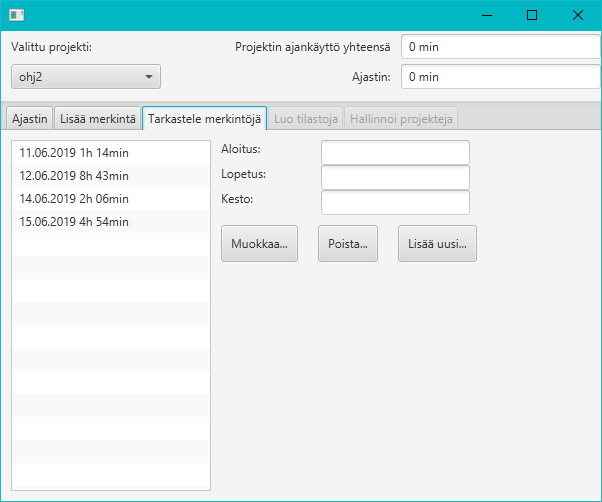
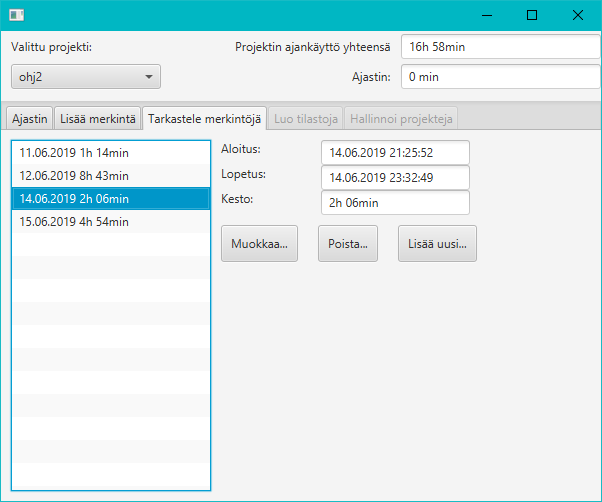
Lisätty toiminnallisuus projektien kokonaisajan laskemiseen ja näyttämiseen

diff --git a/tyoajanseuranta/src/fxTyoaika/controller/MainController.java b/tyoajanseuranta/src/fxTyoaika/controller/MainController.java
@@ -1,6 +1,8 @@
 package fxTyoaika.controller;
 
 import java.net.URL;
+import java.util.ArrayList;
+import java.util.LinkedList;
 import java.util.ResourceBundle;
 
 import fxTyoaika.model.Entry;
@@ -178,9 +180,7 @@ public class MainController extends AbstractController  {
             projectEntryList.setItems(FXCollections.observableArrayList(modelAccess.getSelectedProject().getEntries()));
         });
         
-        //Lisätään valitun projektin tallennetut merkinnät näkyville ListView-elementtiin
-        projectEntryList.setItems(FXCollections.observableArrayList(modelAccess.getSelectedProject().getEntries()));
-        
+        updateView();
         
 //        projectEntryList.setCellFactory(new Callback<ListView<Entry>, ListCell<Entry>>(){
 // 
@@ -208,6 +208,24 @@ public class MainController extends AbstractController  {
 //            }
 //        });
 
+    }
+    
+    private void updateView() {
+
+        LinkedList<Entry> entries = (LinkedList<Entry>) modelAccess.getSelectedProject().getEntries();
+        
+        //Lisätään valitun projektin tallennetut merkinnät näkyville ListView-elementtiin
+        projectEntryList.setItems(FXCollections.observableArrayList(entries));
+        
+        long totalTime = 0L;
+        
+        for (Entry entry : entries) {
+            totalTime += entry.getDurationInSeconds();
+        }
+        
+        totalProjectEntriesField.setText(String.format("%dh %02dmin", totalTime / 3600, (totalTime % 3600) / 60));
+        
+        
     }
 
 }
